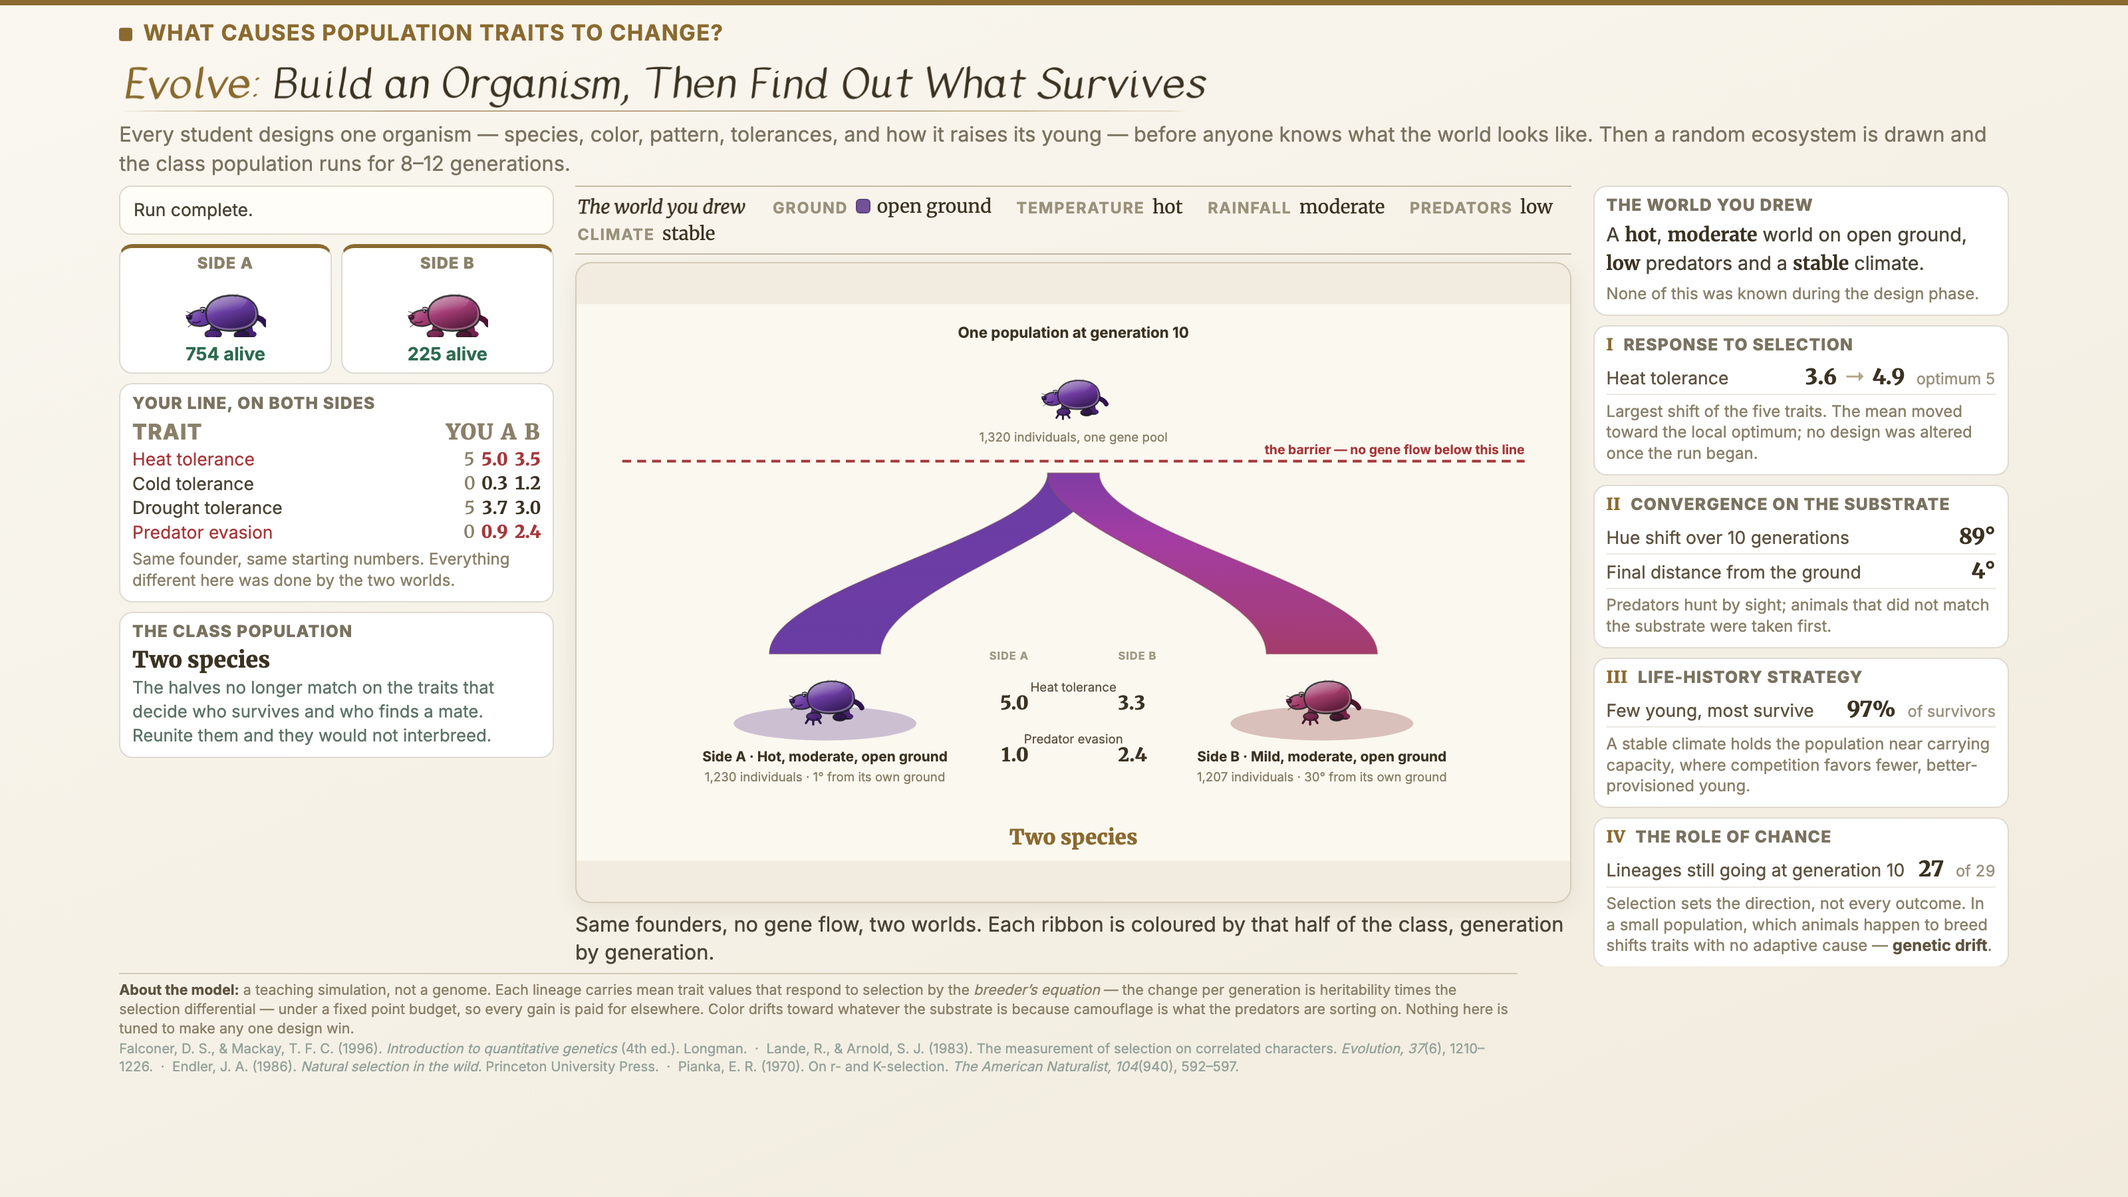
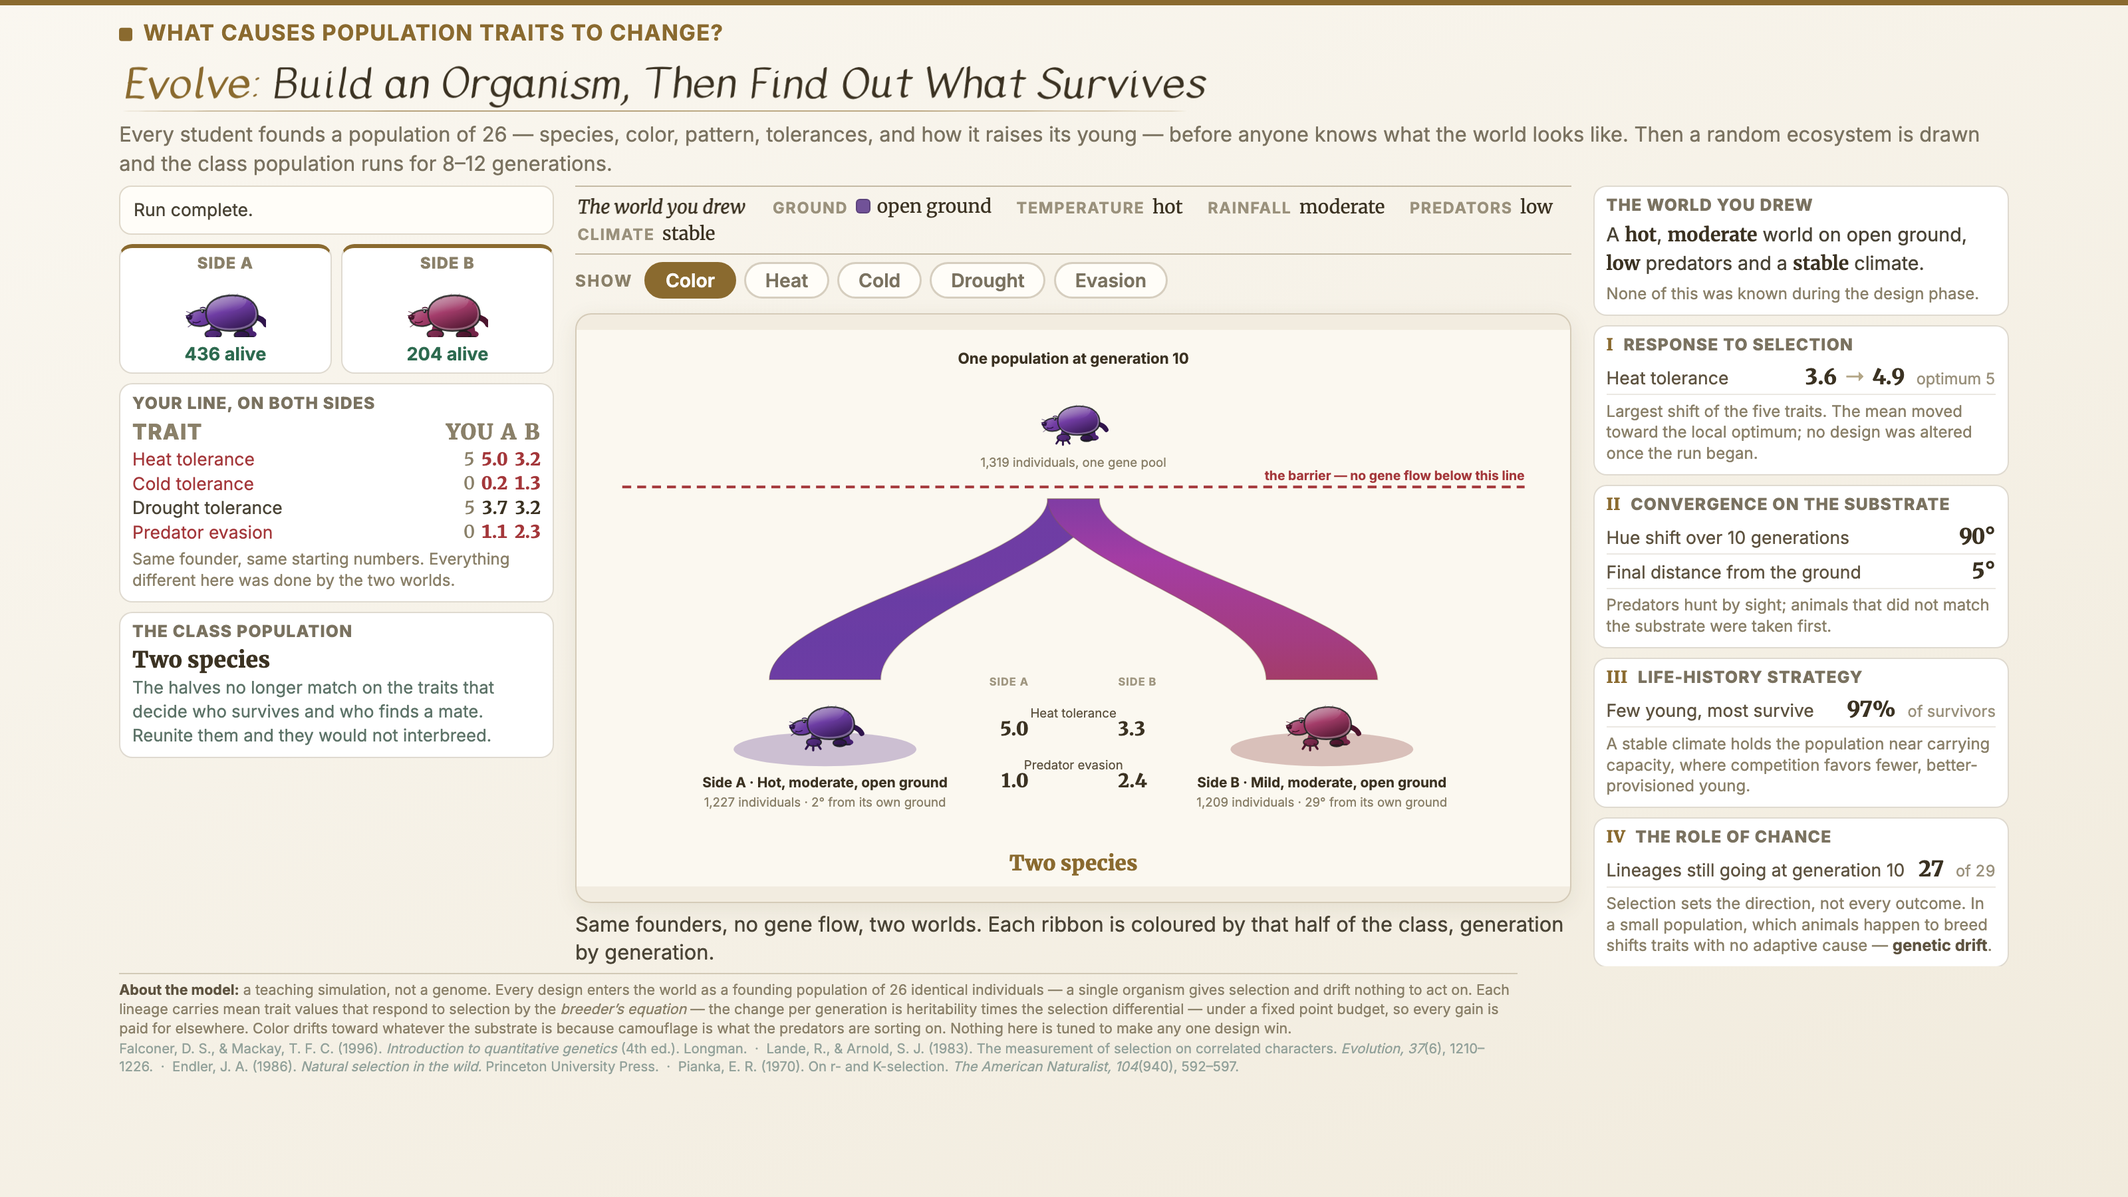
Say it is a founding population, and give students the class-style chart
A design has always entered the world as 26 identical individuals, but nothing
said so, and the family tree made it look like one animal that cloned itself.
FOUNDERS is now a named constant used by the model AND by the wording, so the
two cannot drift: the designer says it, the live panel says it, the model note
says it, and the slide subtitle says it.

Because it is a population, the student now gets the same chart the room does,
drawn for their lineage alone: one bar per generation, made of blocks, one
block per organism. The bar grows and shrinks because the population does, and
the mix inside it is the mix actually alive that generation. Past about a
hundred blocks each one stands for a fixed number and the chart says so rather
than quietly rescaling.

Both charts now share five tabs — color, heat, cold, drought, evasion — so the
projected view and the student view read the same way.

The family tree is superseded and no longer wired to anything. It is left in
place, clearly marked, rather than deleted mid-term.

diff --git a/evolve/index.html b/evolve/index.html
@@ -582,6 +582,10 @@ img.bleed{position:absolute; inset:0; width:100%; height:100%; object-fit:cover;
 .ev-pat.on,.ev-food.on{background:var(--accent); border-color:var(--accent); color:#fff;}
 .ev-hint{font-size:clamp(.56rem,.88vw,.67rem); color:#8a8069; line-height:1.32; margin-top:.24rem;}
 .ev-warn{font-size:clamp(.6rem,.95vw,.72rem); color:#A4373A; text-align:center; margin-top:.2rem;}
+.ev-founding{font-size:clamp(.66rem,1.02vw,.78rem); line-height:1.4; color:#5e5340;
+  background:rgba(184,160,100,.14); border-left:3px solid var(--accent);
+  border-radius:0 8px 8px 0; padding:.4rem .55rem; margin:.1rem 0;}
+.ev-founding b{font-family:'Merriweather',serif; color:#3b3222;}
 .ev-trow{display:flex; align-items:center; gap:.28rem; margin-bottom:.16rem;}
 .ev-tn{flex:1 1 auto; font-size:clamp(.62rem,.97vw,.74rem); color:#4a4436;}
 .ev-pips{display:flex; gap:2px; flex:none;}
@@ -842,6 +846,9 @@ img.bleed{position:absolute; inset:0; width:100%; height:100%; object-fit:cover;
 .bd-barrier{stroke:#A4373A; stroke-width:2.6; stroke-dasharray:9 6;}
 .bd-barlab{font-family:'Inter',sans-serif; font-size:13px; font-weight:700; fill:#A4373A;}
 .bd-leg{font-family:'Inter',sans-serif; font-size:12.5px; fill:#8a8069;}
+.bd-count{font-family:'Merriweather',serif; font-size:13px; font-weight:900; fill:#3b3222;
+  font-variant-numeric:tabular-nums;}
+.mb-cell{stroke:rgba(30,24,12,.22); stroke-width:.6;}
 /* the draw, dressed as a specimen card rather than a game show: parchment,
    hairline rules, small-caps labels, and a restrained gold flash when a value
    lands. The riffle stays — it is the part that makes the room look up. */
@@ -962,7 +969,7 @@ img.bleed{position:absolute; inset:0; width:100%; height:100%; object-fit:cover;
     </g>
   </g>
 </svg>
-        <p class="cg-sub">Every student designs one organism — species, color, pattern, tolerances, and how it raises its young — before anyone knows what the world looks like. Then a random ecosystem is drawn and the class population runs for 8–12 generations.</p>
+        <p class="cg-sub">Every student founds a population of 26 — species, color, pattern, tolerances, and how it raises its young — before anyone knows what the world looks like. Then a random ecosystem is drawn and the class population runs for 8–12 generations.</p>
       </div>
       <div class="cg-clockwrap" data-clockwrap hidden>
         <div class="cg-phase" data-phasename></div>
@@ -1067,7 +1074,10 @@ img.bleed{position:absolute; inset:0; width:100%; height:100%; object-fit:cover;
         <div class="ev-bandbar" data-bandbar hidden>
           <span class="ev-bandlbl">Show</span>
           <button class="ev-bandbtn on" type="button" data-band="color">Color</button>
-          <button class="ev-bandbtn" type="button" data-band="heat">Heat tolerance</button>
+          <button class="ev-bandbtn" type="button" data-band="heat">Heat</button>
+          <button class="ev-bandbtn" type="button" data-band="cold">Cold</button>
+          <button class="ev-bandbtn" type="button" data-band="dry">Drought</button>
+          <button class="ev-bandbtn" type="button" data-band="evade">Evasion</button>
         </div>
         <div class="ev-scenes" data-scenes>
           <div class="ev-scenewrap" data-scenewrap-a>
@@ -1095,7 +1105,9 @@ img.bleed{position:absolute; inset:0; width:100%; height:100%; object-fit:cover;
 
     </div>
 
-    <p class="ev-disc"><b>About the model:</b> a teaching simulation, not a genome. Each
+    <p class="ev-disc"><b>About the model:</b> a teaching simulation, not a genome. Every design enters the
+      world as a founding population of 26 identical individuals &mdash; a single organism gives
+      selection and drift nothing to act on. Each
       lineage carries mean trait values that respond to selection by the
       <em>breeder&#8217;s equation</em> &mdash; the change per generation is heritability times the
       selection differential &mdash; under a fixed point budget, so every gain is paid for
@@ -1337,12 +1349,16 @@ var DRIFT_T=1.05, DRIFT_H=26;
    takes over near the end. */
 var SEL_STEP=0.24, HUE_STEP=0.085;
 
+/* A student does not design an animal, they found a POPULATION: this many
+   identical individuals. One organism could neither be selected on nor drift,
+   so the number matters and the slide says it out loud. */
+var FOUNDERS=26;
 function seedFromDesigns(dz){
   var st={};
   Object.keys(dz).forEach(function(k){
     var d=dz[k];
     st[k]={sp:d.sp, pat:d.pat, lh:d.lh, nextId:1,
-           vars:[{id:0, par:-1, n:26, born:0, died:0, hue:d.hue,
+           vars:[{id:0, par:-1, n:FOUNDERS, born:0, died:0, hue:d.hue,
                   t:{heat:d.t.heat,cold:d.t.cold,dry:d.t.dry,evade:d.t.evade}}]};
   });
   return st;
@@ -2010,6 +2026,10 @@ function renderDesign(force){
   });
   h+='</div><div class="ev-hint">Predators hunt by sight. You do not yet know what the ground looks like.</div></div>';
 
+  h+='<div class="ev-founding">You are not designing one animal. You are founding a '
+    +'population of <b>'+FOUNDERS+'</b>, all identical to start &mdash; a single organism '
+    +'could not be selected on, and could not drift.</div>';
+
   h+='<div class="ev-dsec"><div class="ev-dlbl">3 &middot; Traits <span class="ev-pts'+(left<0?' bad':'')+'">'
     +left+' point'+(left===1?'':'s')+' left</span></div>';
   TRAITS.forEach(function(t){
@@ -2089,7 +2109,9 @@ function renderMine(force){
       +'<div class="ev-blk"><div class="ev-bh">Your variants</div>'
       +'<div class="ev-big">'+famLiveCount()+'</div>'
       +'<div class="ev-sub">branches alive right now</div>'
-      +'<div class="ev-hint">Your founder buds new variants as it grows. They drift apart, and the ones this world cannot keep die off. The full family tree appears when the round ends.</div></div>';
+      +'<div class="ev-hint">Your '+FOUNDERS+' founders are one population, not one animal. As it grows it buds '
+      +'off variants that drift apart, and the ones this world cannot keep die off. '
+      +'The whole picture of your population appears when the round ends.</div></div>';
   }
   /* the trait passport: what you chose vs what selection left */
   if(L){
@@ -2340,6 +2362,24 @@ function startReveal(){
    isolated halves continue underneath as their own columns.              ══ */
 var bandMode='color';
 var HEATC=['#4a7fb5','#7fb2cb','#cfc08a','#d99457','#b4472f'];
+/* the same five views on both charts: the class one on the projector and the
+   student's own lineage on their phone, so the two read the same way */
+var BANDCATS=[{k:'color',n:'Color'},{k:'heat',n:'Heat'},{k:'cold',n:'Cold'},
+              {k:'dry',n:'Drought'},{k:'evade',n:'Evasion'}];
+function bandBin(v){
+  return bandMode==='color' ? Math.floor(((v.hue%360)/360)*12)%12
+       : Math.min(4, Math.max(0, Math.floor(v.t[bandMode]||0)));
+}
+function bandCatName(){
+  for(var i=0;i<BANDCATS.length;i++) if(BANDCATS[i].k===bandMode) return BANDCATS[i].n;
+  return 'Color';
+}
+/* the trait's real name, so nothing ends up reading "evasion tolerance" */
+function bandFullName(){
+  if(bandMode==='color') return 'color';
+  for(var i=0;i<TRAITS.length;i++) if(TRAITS[i].k===bandMode) return TRAITS[i].n.toLowerCase();
+  return bandMode;
+}
 function bandSlices(snap){
   if(!snap) return null;
   var bins, n=0;
@@ -2349,9 +2389,7 @@ function bandSlices(snap){
     var L=snap.lines[k];
     (L.vars||[]).forEach(function(v){
       if(v.died||v.n<=0) return;
-      var i;
-      if(bandMode==='color') i=Math.floor(((v.hue%360)/360)*12)%12;
-      else i=Math.min(4, Math.max(0, Math.floor(v.t.heat)));
+      var i=bandBin(v);
       bins[i]+=v.n; n+=v.n;
     });
   });
@@ -2359,6 +2397,88 @@ function bandSlices(snap){
 }
 function bandColor(i){
   return bandMode==='color' ? hsl(i*30+15, CRIT_SAT, CRIT_LIT) : HEATC[i];
+}
+/* ══ THE STUDENT'S OWN POPULATION ══════════════════════════════════════════
+   A student does not design one animal: they found a population of 26 that all
+   start identical. So the honest picture of what happens to them is the same
+   picture the room gets, drawn for their lineage alone — one bar per
+   generation, and the bar made of BLOCKS, one per organism. The bar grows and
+   shrinks because the population does, and the mix of colours inside it is the
+   mix of animals actually alive that generation.
+
+   At 26 founders growing into the hundreds, one block per organism stops being
+   legible somewhere around a hundred blocks, so past that each block stands
+   for a fixed number and the chart says so rather than quietly rescaling. ══ */
+function mineRow(snap){
+  var L=snap?snap.lines[PK]:null;
+  if(!L||!L.vars) return null;
+  var out=[], n=0;
+  L.vars.forEach(function(v){
+    if(v.died||v.n<=0) return;
+    out.push({bin:bandBin(v), n:v.n}); n+=v.n;
+  });
+  out.sort(function(a,b){ return a.bin-b.bin; });
+  return n>0 ? {parts:out, tot:n} : {parts:[], tot:0};
+}
+function drawMineBands(svg, W, H){
+  var G=gens(), rows=[];
+  for(var g=1;g<=G;g++) rows.push({g:g, r:mineRow(snapAt(0,g))});
+  if(!rows.some(function(x){ return x.r; })) return false;
+  svg.setAttribute('preserveAspectRatio','xMidYMid meet');
+  svg.setAttribute('viewBox','0 0 '+W+' '+H);
+
+  var PADL=74, PADR=26, PADT=62, PADB=52;
+  var trackW=W-PADL-PADR, rowH=(H-PADT-PADB)/rows.length;
+  var barH=Math.max(7, rowH*0.66);
+  var peak=1; rows.forEach(function(x){ if(x.r) peak=Math.max(peak,x.r.tot); });
+  /* how many animals one block stands for, and how wide a block is */
+  var per=Math.max(1, Math.ceil(peak/100));
+  var cells=Math.ceil(peak/per), cw=Math.min(14, trackW/Math.max(1,cells));
+  var bw=Math.max(1.5, cw-1.6);
+
+  var s='<rect width="'+W+'" height="'+H+'" fill="#fbf8f0"/>';
+  s+='<text class="bd-title" x="'+PADL+'" y="22">Your population, generation by generation</text>'
+    +'<text class="bd-marklab" x="'+PADL+'" y="44">every block is '
+    +(per===1?'one organism':per+' organisms')+' &middot; sorted by '+bandFullName()+'</text>';
+
+  rows.forEach(function(x,i){
+    var y=PADT+rowH*i;
+    s+='<text class="bd-gen" x="'+(PADL-8)+'" y="'+(y+barH*0.76).toFixed(1)+'" text-anchor="end">'+x.g+'</text>';
+    if(!x.r || !x.r.tot){
+      s+='<rect class="bd-empty" x="'+PADL+'" y="'+y.toFixed(1)+'" width="'+trackW+'" height="'+barH.toFixed(1)+'" rx="2"/>'
+        +'<text class="bd-leg" x="'+(PADL+8)+'" y="'+(y+barH*0.76).toFixed(1)+'">gone</text>';
+      return;
+    }
+    var col=0;
+    x.r.parts.forEach(function(pt){
+      var k=Math.round(pt.n/per);
+      for(var j=0;j<k && col<cells;j++,col++){
+        s+='<rect class="mb-cell" x="'+(PADL+col*cw).toFixed(1)+'" y="'+y.toFixed(1)
+          +'" width="'+bw.toFixed(1)+'" height="'+barH.toFixed(1)+'" rx="1.6" fill="'+bandColor(pt.bin)+'"/>';
+      }
+    });
+    s+='<text class="bd-count" x="'+(PADL+col*cw+8).toFixed(1)+'" y="'+(y+barH*0.76).toFixed(1)+'">'
+      +num(x.r.tot)+'</text>';
+  });
+
+  /* what the world is asking for, so the drift has something to drift toward */
+  if(bandMode==='color'){
+    var e=world(0), gx=PADL+((e.hue%360)/360)*trackW;
+    s+='<path class="bd-mark" d="M'+gx.toFixed(1)+' '+(PADT-10)+' v'+(rowH*rows.length+6).toFixed(1)+'"/>';
+  }
+  s+='<text class="bd-leg" x="'+PADL+'" y="'+(H-14)+'">Each bar is your whole living population that generation. '
+    +'It grows when they breed and shortens when they are eaten.</text>';
+  s+='<text class="fm-rowlab" x="'+(PADL-8)+'" y="'+(PADT-16)+'" text-anchor="end">gen</text>';
+  svg.innerHTML=s;
+  return true;
+}
+function bandCaption(){
+  var mine=(!HOST && myDesign());
+  var whose=mine? 'your population' : 'the whole class';
+  return bandMode==='color'
+    ? 'Every bar is one generation of '+whose+'. Watch the color mix narrow toward the ground.'
+    : 'Every bar is one generation of '+whose+', sorted by '+bandFullName()
+      +'. Watch which band the world keeps.';
 }
 function drawBands(svg, W, H){
   svg.setAttribute('preserveAspectRatio','xMidYMid meet');
@@ -2378,8 +2498,8 @@ function drawBands(svg, W, H){
   var rowH=avail/rows, barH=Math.max(6, rowH*0.74);
   var s='<rect width="'+W+'" height="'+H+'" fill="#fbf8f0"/>';
   s+='<text class="bd-title" x="'+PADL+'" y="22">'
-    +(bandMode==='color' ? 'Color of the living population, generation by generation'
-                         : 'Heat tolerance of the living population, generation by generation')+'</text>';
+    +(bandMode==='color' ? 'Color' : bandFullName().charAt(0).toUpperCase()+bandFullName().slice(1))
+    +' of the living population, generation by generation</text>';
   function drawCol(list, x0, w, yTop, tag){
     var out='';
     list.forEach(function(r,i){
@@ -2440,7 +2560,13 @@ function drawBands(svg, W, H){
   return true;
 }
 
-/* ══ THE FAMILY TREE ═══════════════════════════════════════════════════════
+/* ⚠ SUPERSEDED, KEPT FOR REFERENCE. The student's screen now shows their own
+   founding population as a block chart (drawMineBands) — the same view the room
+   gets, which is the honest one because they founded a population rather than an
+   animal. Nothing calls drawFamily any more, so famSel is never set and famCard
+   never renders. Delete the whole block if it is still unused next term.
+
+   ══ THE FAMILY TREE ═══════════════════════════════════════════════════════
    One tree per student, read top to bottom like a pedigree: the organism they
    built sits at the root, every variant it threw off hangs beneath it at the
    generation it was born, and a line that died out ends there. Rows are
@@ -3066,7 +3192,7 @@ function render(){
   q('[data-joinbox]').hidden = HOST || joined() || !(ph==='lobby'||ph==='design');
   renderEcoBar(); renderDesign(); renderMine(); renderReadout(); renderSurvey();
   var bb=q('[data-bandbar]');
-  bb.hidden = !((ph==='discuss'||ph==='final') && (HOST || !myDesign()));
+  bb.hidden = !(ph==='discuss'||ph==='final');
   if(ph==='reveal') startReveal(); else q('[data-reveal]').hidden=true;
   root.classList.toggle('designing', ph==='design');
   var two = (ph==='split');
@@ -3087,8 +3213,11 @@ function render(){
             && drawSplitFig(q('[data-scene-a]'),1000,560)){
     /* a tree carried through the barrier forks everywhere at once and stops
        being readable, so after the barrier the student gets the split itself */
-  } else if((ph==='discuss'||ph==='final') && !HOST && myDesign() && drawFamily(q('[data-scene-a]'),1000,560)){
-    /* the end of a round is exactly when a student wants their own family tree */
+  } else if((ph==='discuss'||ph==='final') && !HOST && myDesign()
+            && drawMineBands(q('[data-scene-a]'),1000,560)){
+    /* the same chart the room is looking at, drawn for this student's own
+       founding population — which is the honest picture, because they founded
+       a population rather than an animal */
   } else if((ph==='discuss'||ph==='final') && (HOST || !myDesign()) && drawBands(q('[data-scene-a]'),1000,560)){
     /* the projected copy gets the whole class instead: one bar per generation */
   } else {
@@ -3111,19 +3240,12 @@ function render(){
   if(ph==='run'){ var s=snapAt(0,genIdx()||1);
     cap.textContent = s ? ('Generation '+(genIdx()||1)+' — '+num(s.tot)+' individuals, '
       +s.alive+' lineages still going'+(s.shock?' — a hard year':'')) : ''; }
-  else if(ph==='discuss') cap.textContent = (!HOST && myDesign())
-    ? 'Your family tree: the organism you built, and everything descended from it.'
-    : (bandMode==='color'
-        ? 'Every bar is one generation. The color mix narrows as the badly matched are eaten.'
-        : 'Every bar is one generation, sliced by heat tolerance. Watch which band the world keeps.');
+  else if(ph==='discuss') cap.textContent = bandCaption();
   else if(ph==='split'){ var sd=divergence(popMean(snapAt(1,splitIdx()||1)),popMean(snapAt(2,splitIdx()||1)));
     cap.textContent='Generation '+(splitIdx()||1)+' since the barrier — '+(sd?sd.name.toLowerCase():'measuring'); }
-  else if(ph==='final') cap.textContent = (!HOST && myDesign())
-    ? (didSplit()? 'Same founders, no gene flow, two worlds. Each ribbon is coloured by that half of the class, generation by generation.'
-                 : 'Your family tree: the organism you built, and everything descended from it.')
-    : (bandMode==='color'
-        ? 'Every bar is one generation. The color mix narrows as the badly matched are eaten.'
-        : 'Every bar is one generation, sliced by heat tolerance. Watch which band the world keeps.');
+  else if(ph==='final') cap.textContent = (!HOST && myDesign() && didSplit())
+    ? 'Same founders, no gene flow, two worlds. Each ribbon is coloured by that half of the class, generation by generation.'
+    : bandCaption();
   else cap.textContent='';
 
   var st=q('[data-status]');
@@ -3183,10 +3305,9 @@ q('[data-bandbar]').addEventListener('click',function(ev){
   Array.prototype.forEach.call(this.querySelectorAll('[data-band]'),function(x){
     x.classList.toggle('on', x.getAttribute('data-band')===bandMode);
   });
-  drawBands(q('[data-scene-a]'), 1000, 560);
-  q('[data-caption]').textContent = bandMode==='color'
-    ? 'Every bar is one generation. The color mix narrows as the badly matched are eaten.'
-    : 'Every bar is one generation, sliced by heat tolerance. Watch which band the world keeps.';
+  if(!HOST && myDesign()) drawMineBands(q('[data-scene-a]'), 1000, 560);
+  else drawBands(q('[data-scene-a]'), 1000, 560);
+  q('[data-caption]').textContent = bandCaption();
 });
 
 /* pick an organism out of the family tree to read it */
